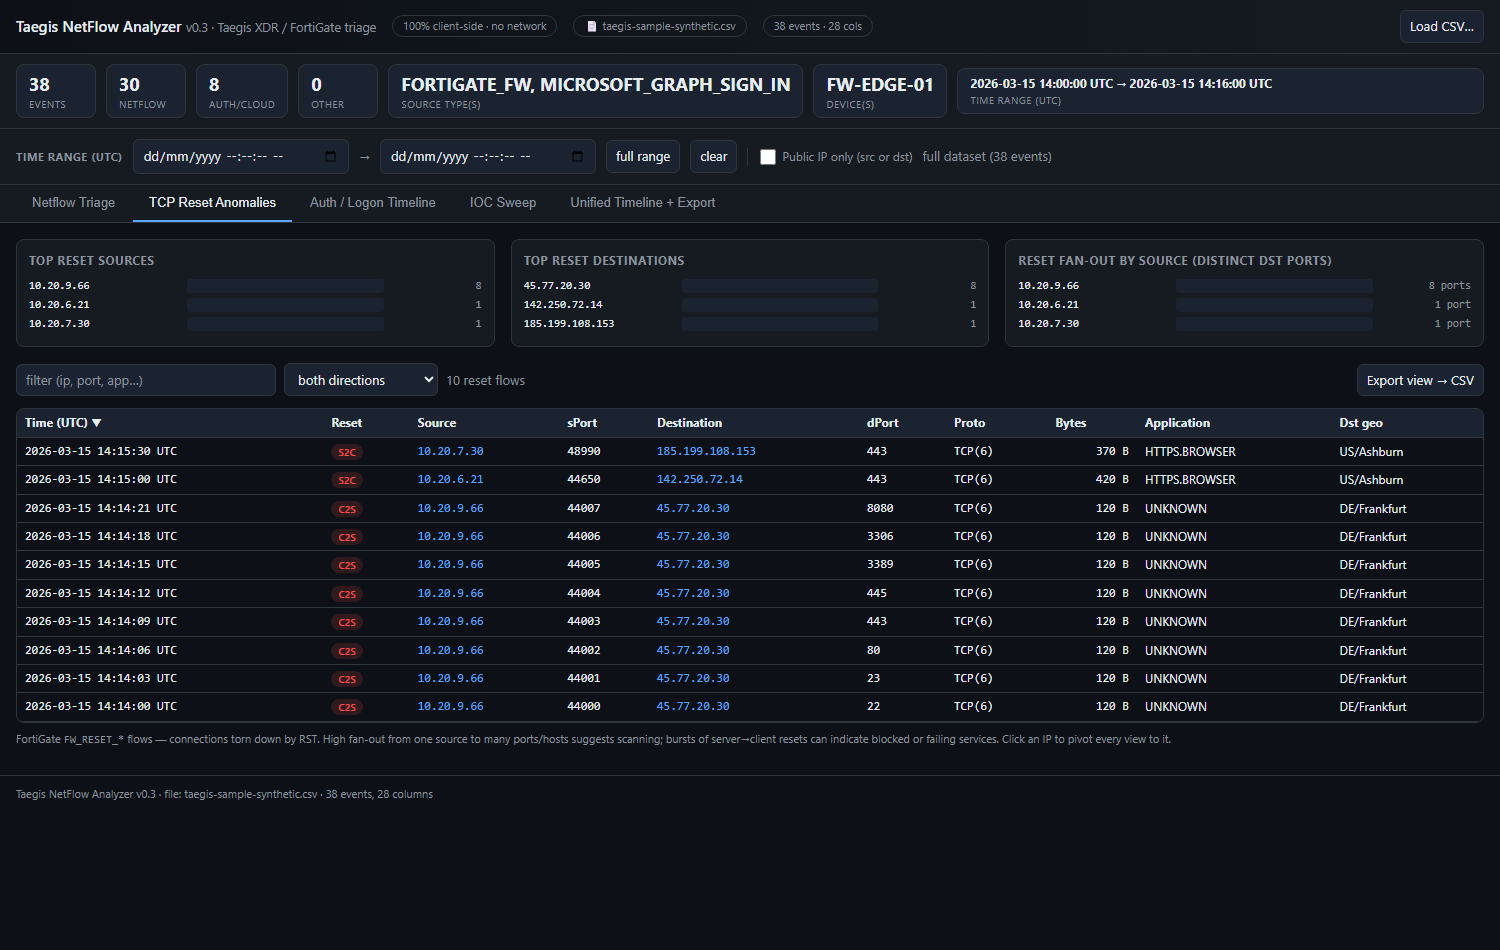
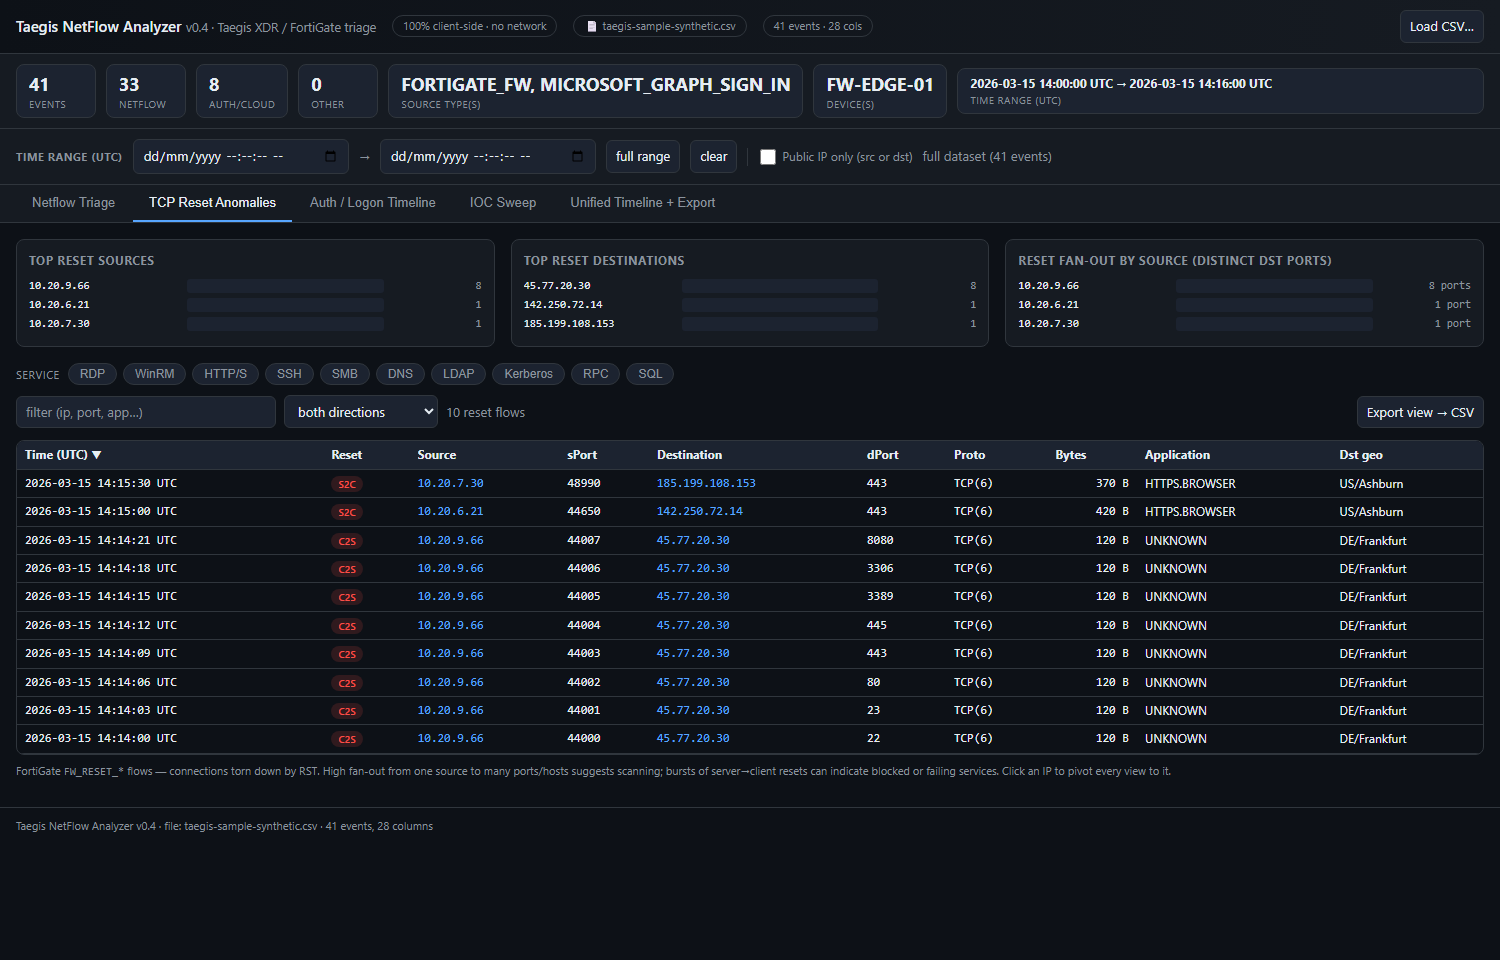
v0.4: service quick-filter chips (RDP, WinRM, HTTP/S, SSH, SMB, DNS, LDAP, Kerberos, RPC, SQL)
- Add one-click service chips to the Netflow and TCP-Reset views that narrow the
  table to well-known ports (match on source OR destination port; multiple chips
  OR together). Requested set (RDP/WinRM/HTTP-S) plus common lateral-movement and
  infrastructure services.
- Chips reset on load; service filter also applied to netflow CSV export.
- Synthetic sample gains WinRM (5985/5986) and extra RDP flows so all chips demo.
- README: new feature bullet + service-filter screenshot; screenshots regenerated
  for v0.4. Rename to Taegis-NetFlow-Analyzer-v0.4.html; version bumped throughout.

diff --git a/README.md b/README.md
@@ -1,6 +1,6 @@
 # Taegis NetFlow Analyzer
 
-**Current build:** `Taegis-NetFlow-Analyzer-v0.3.html` (v0.3)
+**Current build:** `Taegis-NetFlow-Analyzer-v0.4.html` (v0.4)
 
 A single-file, **100% client-side** HTML tool for triaging **Secureworks Taegis XDR**
 search exports — the 252-column normalized event schema that carries FortiGate
@@ -30,6 +30,10 @@ _All screenshots use the fully synthetic sample in [`sample/`](sample/) — ever
 
 ![TCP reset anomalies](assets/03-tcp-reset-anomalies.png)
 
+**Service quick-filters** — one-click chips (RDP + WinRM active here) narrow the flow table to remote-access / lateral-movement ports:
+
+![Service quick-filter chips](assets/04-service-filter.png)
+
 ## Features
 
 - **Global time-range filter (UTC)** — a `From → To` range at the top filters
@@ -44,6 +48,12 @@ _All screenshots use the fully synthetic sample in [`sample/`](sample/) — ever
 - **Netflow triage** — top source/destination IPs, top destination IPs by bytes,
   top destination ports, with action / protocol / application columns and a
   filterable, sortable flow table.
+- **Service quick-filter chips** — one-click toggles that narrow the Netflow and
+  TCP-Reset tables to well-known service ports (match on source **or** destination
+  port; multiple chips OR together): **RDP** (3389), **WinRM** (5985/5986),
+  **HTTP/S** (80/443/8080/8443/8000), **SSH** (22), **SMB** (445/139), **DNS** (53),
+  **LDAP** (389/636/3268/3269), **Kerberos** (88), **RPC** (135), **SQL**
+  (1433/3306/5432/1521). Great for hunting remote-access and lateral movement.
 - **TCP reset anomalies** — isolates FortiGate `FW_RESET_*` flows (connections
   torn down by RST), with top reset sources/destinations, a **fan-out heuristic**
   (distinct destination ports per source — a scanning indicator), and a
@@ -61,7 +71,7 @@ footer of the page.
 
 ## Usage
 
-1. Open `Taegis-NetFlow-Analyzer-v0.3.html` in a browser (double-click), or grab
+1. Open `Taegis-NetFlow-Analyzer-v0.4.html` in a browser (double-click), or grab
    it from the [Releases](../../releases/latest) page.
 2. Drag a Taegis XDR export CSV onto the drop zone (or click **Load CSV…**).
 3. Use the tabs to triage. Click any IP to filter all views to it. Set a